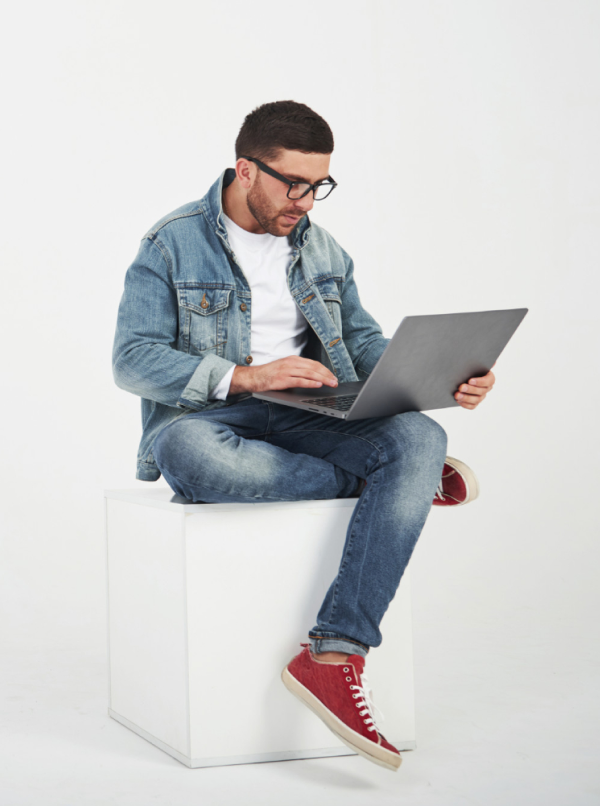
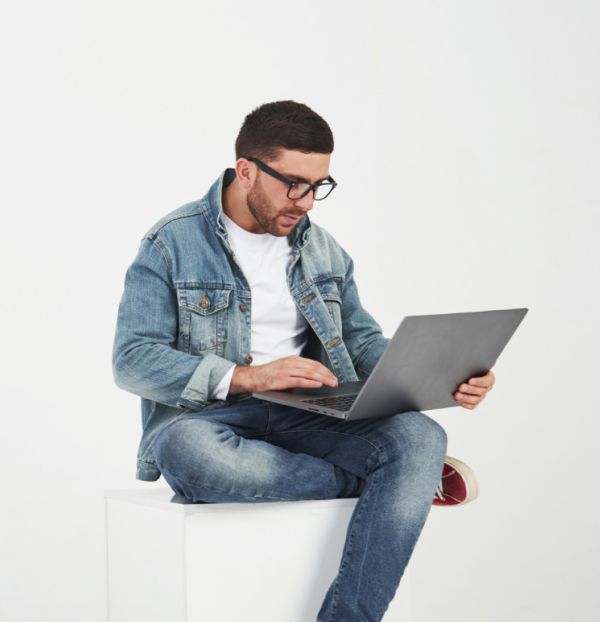
explore section added

diff --git a/index2.html b/index2.html
@@ -10,79 +10,37 @@
 </head>
 
 <body>
-    <section class="container">
-        <div id="carouselExampleCaptions" class="carousel slide" data-bs-ride="false">
-            <div class="carousel-indicators">
-                <button type="button" data-bs-target="#carouselExampleCaptions" data-bs-slide-to="0" class="active"
-                    aria-current="true" aria-label="Slide 1"></button>
-                <button type="button" data-bs-target="#carouselExampleCaptions" data-bs-slide-to="1"
-                    aria-label="Slide 2"></button>
-                <button type="button" data-bs-target="#carouselExampleCaptions" data-bs-slide-to="2"
-                    aria-label="Slide 3"></button>
-                <button type="button" data-bs-target="#carouselExampleCaptions" data-bs-slide-to="3"
-                    aria-label="Slide 4"></button>
+    <section class="container explore">
+        <div class="row align-items-center">
+            <div class="col-md-6">
+                <img class="img-fluid" src="images/working.png" alt="">
             </div>
-            <div class="carousel-inner">
-                <div class="carousel-item active">
-                    <img src="images/cover/cover1.jpg" class="d-block w-100" alt="cover pic intro">
-                    <div class="carousel-caption">
-                        <h3 class="fw-bold  mb-3 display-4 d-none d-md-block">Integration of digital learning in
-                            industry <span class="text-primary text-opacity-50">4.0</span></h3>
-                        <button class="btn btn-primary d-md-inline-block d-none mb-1">Get Started</button>
-                        <p>"Technology will not replace great teachers but technology in the hands of great teachers
-                            can be tranformational"</p>
-                            <!-- this button will visible only on small device   -->
-                            <button class="btn btn-primary d-sm-none d-inline-block mb-1">Get Started</button>
+            <div class="col-md-6 bg-success bg-opacity-10 rounded p-4">
+                <div class="card">
+                    <h1 class="card-title fw-semibold display-5 mb-lg-4">What is UrbanIT Digital learning ?</h1>
+                    <p class="h4 card-text">UrbanIT is an online school for people looking to switch to a rewarding career in
+                        tech. Select a program, get paired with an expert mentor and tutor, and become a <span
+                            class="d-lg-block d-md-none d-sm-none">job-ready designer, developer, or analyst from
+                            scratch, or your money back.Our programs will teach you everything you need</span></p>
+                    <div class="card-footer border-0 followers mt-lg-4">
+                        <div class="ro d-flex gap-4 justify-content-lg-between">
+                            <div class="co-4">
+                                <h1 class="fw-bold">3.4k+</h1>
+                                <p>Online Courses</p>
+                            </div>
+                            <div class="co-4">
+                                <h1 class="fw-bold ">600+</h1>
+                                <p>Expert member</p>
+                            </div>
+                            <div class="co-4">
+                                <h1 class="fw-bold">1k+</h1>
+                                <p>Rating & Review</p>
+                            </div>
+                        </div>
                     </div>
-                </div>
-                <div class="carousel-item">
-                    <img src="images/cover/cover2.jpg" class="d-block w-100" alt="meeting">
-                    <div class="carousel-caption">
-                        <h3 class="fw-bold  mb-3 display-4 d-none d-md-block">Digitization of interanl proccess with
-                            <span class="text-primary text-opacity-50">urbanIT</span>
-                        </h3>
-                        <button class="btn btn-primary mb-1 d-lg-inline-block d-none">Get Started</button>
-                        <p>"Technology will not replace great teachers but technology in the hands of great teachers
-                            can be tranformational"</p>
-                             <!-- this button will visible only on small device   -->
-                             <button class="btn btn-primary d-sm-none d-inline-block mb-1">Get Started</button>
-                    </div>
-                </div>
-                <div class="carousel-item">
-                    <img src="images/cover/cover3.jpg" class="d-block w-100" alt="one pc">
-                    <div class="carousel-caption ">
-                        <h3 class="fw-bold  mb-3 display-4 d-none d-md-block">The best programme for digital
-                            learning <span class="text-primary text-opacity-50">4.0</span></h3>
-                        <button class="btn btn-primary mb-1 d-lg-inline-block d-none">Get Started</button>
-                        <p>"Technology will not replace great teachers but technology in the hands of great teachers
-                            can be tranformational"</p>
-                             <!-- this button will visible only on small device   -->
-                             <button class="btn btn-primary d-sm-none d-inline-block mb-1">Get Started</button>
-                    </div>
-                </div>
-                <div class="carousel-item">
-                    <img src="images/cover/cover4.jpg" class="d-block w-100" alt="one pc">
-                    <div class="carousel-caption">
-                        <h3 class="fw-bold  mb-3 display-4 d-none d-md-block">Here we are waiting for you<span
-                                class="text-primary text-opacity-50">UrbanIT</span></h3>
-                        <button class="btn btn-primary mb-1 d-lg-inline-block d-none">Get Started</button>
-                        <p>"Technology will not replace great teachers but technology in the hands of great teachers
-                            can be tranformational"</p>
-                             <!-- this button will visible only on small device   -->
-                             <button class="btn btn-primary d-sm-none d-inline-block mb-1">Get Started</button>
-                    </div>
+                    <button class="btn btn-primary">Read article</button>
                 </div>
             </div>
-            <button class="carousel-control-prev" type="button" data-bs-target="#carouselExampleCaptions"
-                data-bs-slide="prev">
-                <span class="carousel-control-prev-icon" aria-hidden="true"></span>
-                <span class="visually-hidden">Previous</span>
-            </button>
-            <button class="carousel-control-next" type="button" data-bs-target="#carouselExampleCaptions"
-                data-bs-slide="next">
-                <span class="carousel-control-next-icon" aria-hidden="true"></span>
-                <span class="visually-hidden">Next</span>
-            </button>
         </div>
     </section>
 

diff --git a/index.html b/index.html
@@ -142,7 +142,7 @@
     <!-- ------main section start here-------- -->
     <main>
         <!-- course section  -->
-        <section class="container">
+        <section class="container mb-5">
             <div class="text-center my-md-5">
                 <h2 class="display-6 fw-bold">Advanced Industry Relevant <br> Courses for All</h2>
                 <p>UrbanIT supports you to get placed in top companies,whether you're trying to start a new career or
@@ -270,6 +270,34 @@
                 <button class="btn btn-primary px-4 py-2">View All</button>
             </div>
         </section>
+        <section class="container explore">
+            <div class="row align-items-center">
+             <div class="col-md-6">
+                 <img class="img-fluid h-50" src="images/working.png" alt="">
+             </div>
+             <div class="col-md-6 bg-success bg-opacity-10 rounded p-4">
+                 <h1 class="fw-semibold display-5 mb-lg-4">What is UrbanIT Digital learning ?</h1>
+                 <p class="h4">UrbanIT is an online school for people looking to switch to a rewarding career in tech. Select a program, get paired with an expert mentor and tutor, and become a <span class="d-lg-block d-md-none d-sm-none">job-ready designer, developer, or analyst from scratch, or your money back.Our programs will teach you everything you need</span></p>
+                 <div class="followers mt-lg-4">
+                     <div class="row">
+                         <div class="col-4">
+                             <h1 class="fw-bold">3.4k+</h1>
+                             <p>Online Courses</p>
+                         </div>
+                         <div class="col-4">
+                                 <h1 class="fw-bold ">600+</h1>
+                                 <p>Expert member</p>
+                         </div>
+                         <div class="col-4">
+                             <h1 class="fw-bold">1k+</h1>
+                             <p>Rating & Review</p>
+                         </div>
+                     </div>
+                 </div>
+                 <button class="btn btn-primary">Read article</button>
+             </div>
+            </div>
+         </section>
     </main>
     <!-- CDN js link  -->
     <script src="	https://cdn.jsdelivr.net/npm/bootstrap@5.2.0/dist/js/bootstrap.bundle.min.js"></script>
